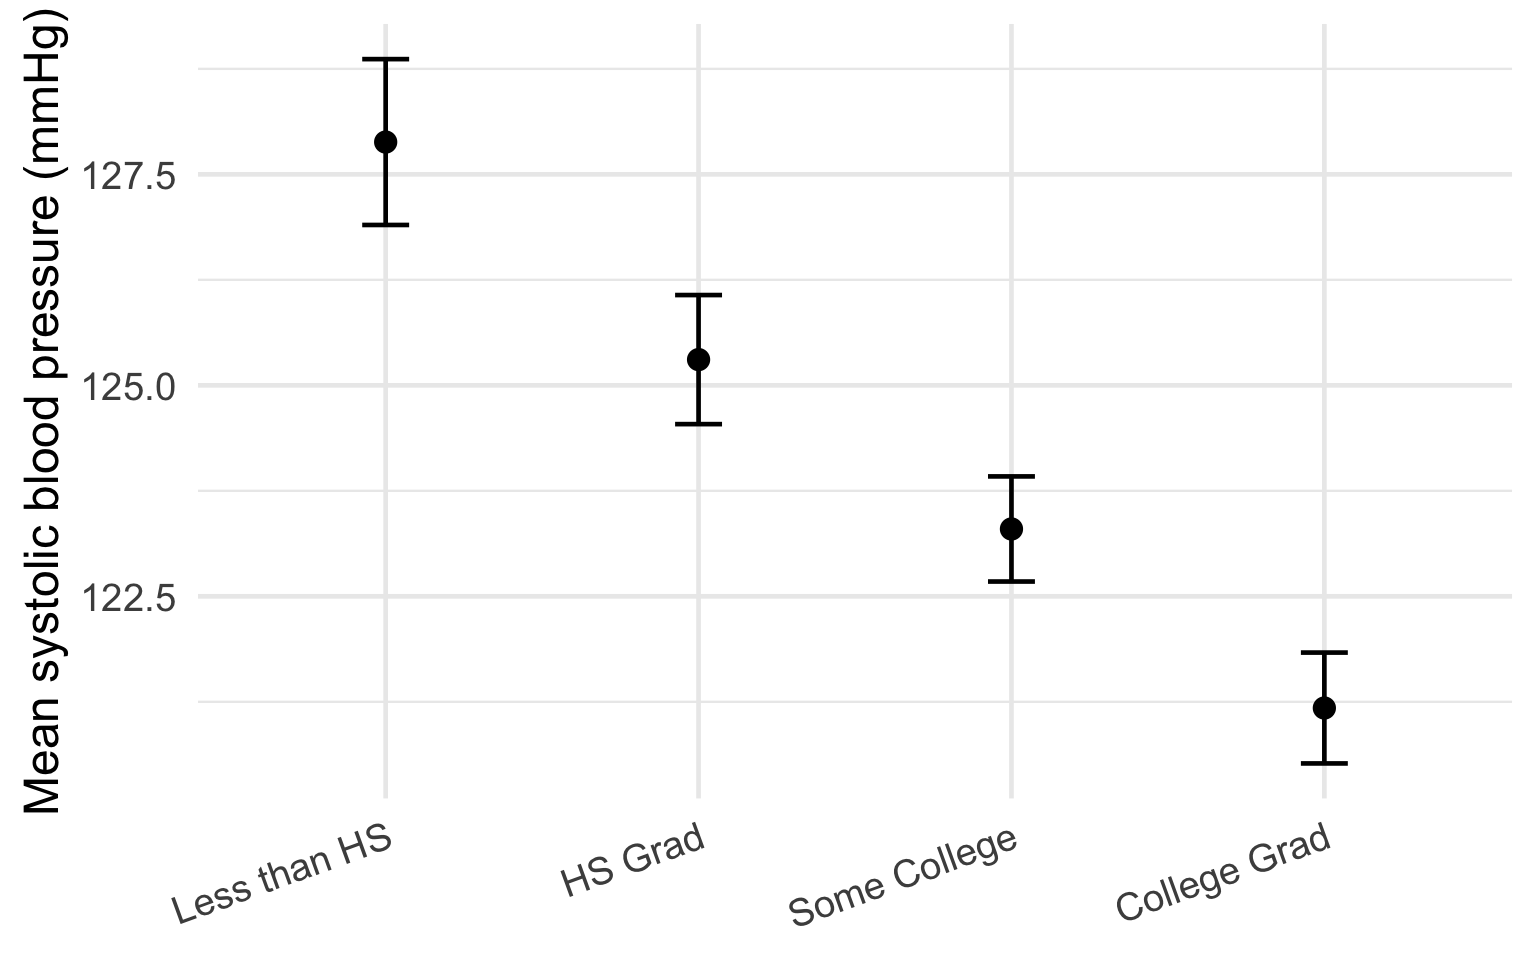
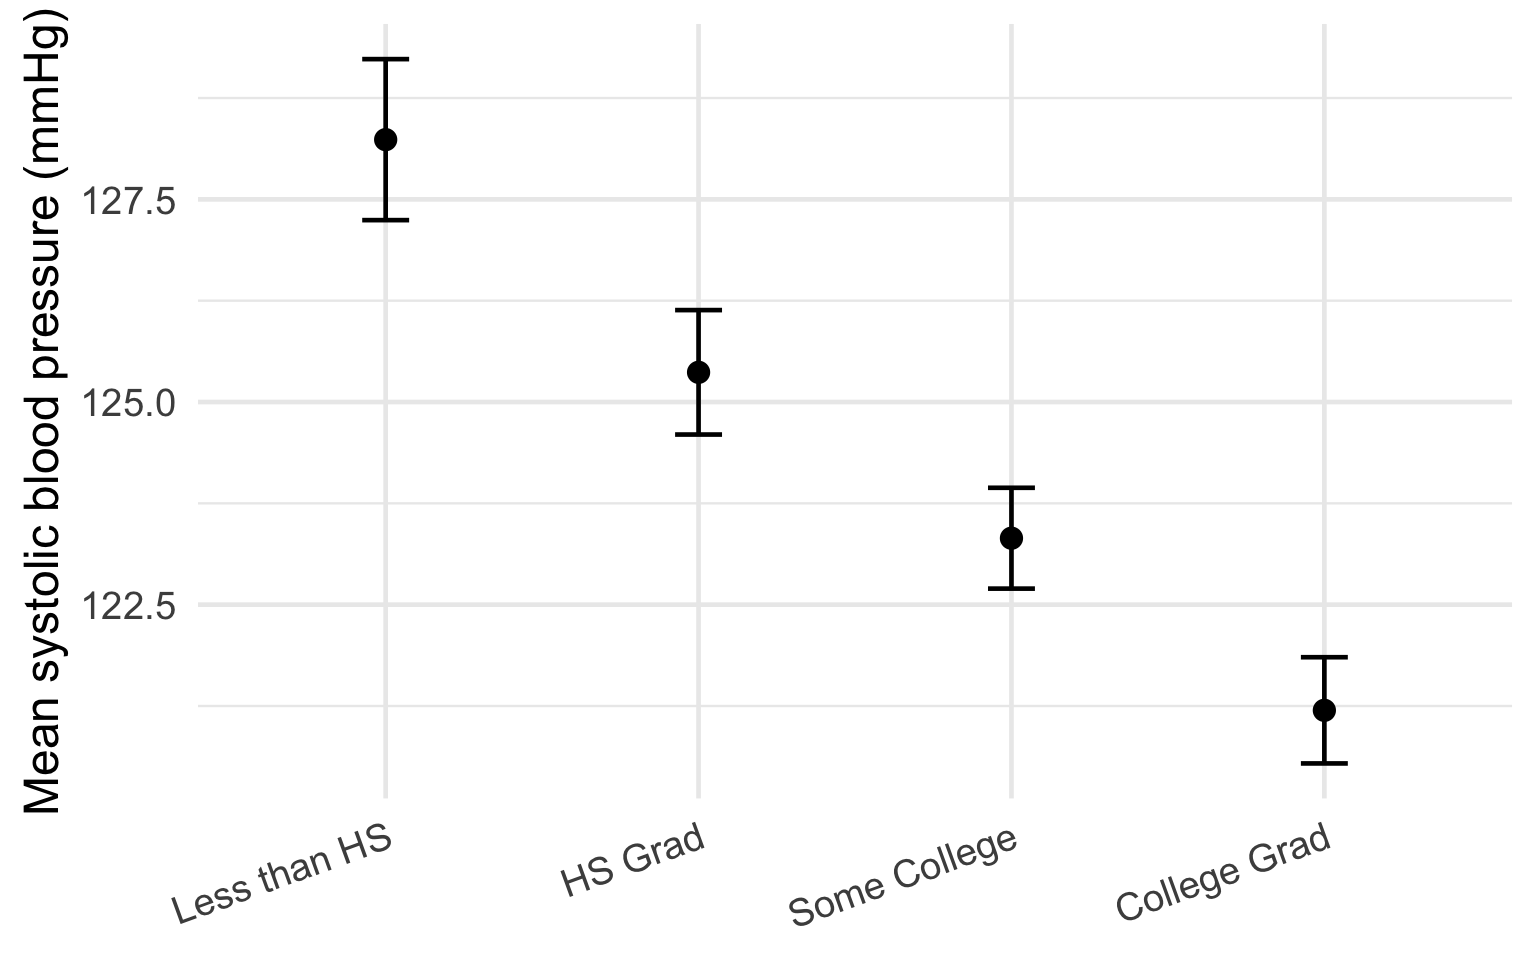
Add files via upload

diff --git a/docs/dashboard-main/dashboard.html b/docs/dashboard-main/dashboard.html
@@ -173,6 +173,8 @@ ul.task-list li input[type="checkbox"] {
 
 <!--
 ____________________________________________________________________________________________
+STUDY 1
+
 DATA DEVELOPMENT AND CLEANING
 ____________________________________________________________________________________________-->
 <!--
@@ -294,7 +296,7 @@ grid-auto-rows: minmax(0, 1fr);">
 Female Mean SBP
 </p>
 <p class="value-box-value">
-121.4 mmHg
+121.5 mmHg
 </p>
 </div>
 </div>
@@ -307,7 +309,7 @@ Female Mean SBP
 Male Mean SBP
 </p>
 <p class="value-box-value">
-126.7 mmHg
+126.8 mmHg
 </p>
 </div>
 </div>
@@ -366,17 +368,17 @@ Sex vs.&nbsp;SBP Summary
 <tbody>
 <tr class="odd">
 <td style="text-align: left;">Female</td>
-<td style="text-align: right;">3570</td>
-<td style="text-align: right;">121.4</td>
-<td style="text-align: right;">20</td>
+<td style="text-align: right;">3590</td>
+<td style="text-align: right;">121.5</td>
+<td style="text-align: right;">20.1</td>
 <td style="text-align: right;">118</td>
-<td style="text-align: right;">25.9</td>
+<td style="text-align: right;">25.7</td>
 </tr>
 <tr class="even">
 <td style="text-align: left;">Male</td>
-<td style="text-align: right;">3455</td>
-<td style="text-align: right;">126.7</td>
-<td style="text-align: right;">17</td>
+<td style="text-align: right;">3493</td>
+<td style="text-align: right;">126.8</td>
+<td style="text-align: right;">17.1</td>
 <td style="text-align: right;">124</td>
 <td style="text-align: right;">20.0</td>
 </tr>
@@ -442,7 +444,7 @@ grid-auto-rows: minmax(0, 1fr);">
 Participants
 </p>
 <p class="value-box-value">
-7025
+7079
 </p>
 </div>
 </div>
@@ -470,7 +472,7 @@ College Grad Mean SBP
 Less than HS Mean SBP
 </p>
 <p class="value-box-value">
-127.9 mmHg
+128.2 mmHg
 </p>
 </div>
 </div>
@@ -544,31 +546,31 @@ Education vs.&nbsp;SBP Summary
 <tbody>
 <tr class="odd">
 <td style="text-align: left;">Less than HS</td>
-<td style="text-align: right;">1206</td>
-<td style="text-align: right;">127.9</td>
-<td style="text-align: right;">20.7</td>
-<td style="text-align: right;">124.3</td>
-<td style="text-align: right;">27.3</td>
+<td style="text-align: right;">1228</td>
+<td style="text-align: right;">128.2</td>
+<td style="text-align: right;">21.1</td>
+<td style="text-align: right;">124.7</td>
+<td style="text-align: right;">27.7</td>
 </tr>
 <tr class="even">
 <td style="text-align: left;">HS Grad</td>
-<td style="text-align: right;">1684</td>
-<td style="text-align: right;">125.3</td>
-<td style="text-align: right;">19.1</td>
+<td style="text-align: right;">1695</td>
+<td style="text-align: right;">125.4</td>
+<td style="text-align: right;">19.2</td>
 <td style="text-align: right;">122.7</td>
 <td style="text-align: right;">23.7</td>
 </tr>
 <tr class="odd">
 <td style="text-align: left;">Some College</td>
-<td style="text-align: right;">2346</td>
+<td style="text-align: right;">2360</td>
 <td style="text-align: right;">123.3</td>
-<td style="text-align: right;">18.3</td>
+<td style="text-align: right;">18.4</td>
 <td style="text-align: right;">120.7</td>
 <td style="text-align: right;">23.7</td>
 </tr>
 <tr class="even">
 <td style="text-align: left;">College Grad</td>
-<td style="text-align: right;">1789</td>
+<td style="text-align: right;">1796</td>
 <td style="text-align: right;">121.2</td>
 <td style="text-align: right;">16.9</td>
 <td style="text-align: right;">119.3</td>
@@ -613,43 +615,43 @@ Tukey HSD Pairwise Comparisons
 <tbody>
 <tr class="odd">
 <td style="text-align: left;">HS Grad-Less than HS</td>
-<td style="text-align: right;">-2.58</td>
-<td style="text-align: right;">-4.19</td>
-<td style="text-align: right;">-0.97</td>
-<td style="text-align: left;">0.001</td>
+<td style="text-align: right;">-2.87</td>
+<td style="text-align: right;">-4.48</td>
+<td style="text-align: right;">-1.26</td>
+<td style="text-align: left;">&lt;0.001</td>
 </tr>
 <tr class="even">
 <td style="text-align: left;">Some College-Less than HS</td>
-<td style="text-align: right;">-4.58</td>
-<td style="text-align: right;">-6.09</td>
-<td style="text-align: right;">-3.07</td>
+<td style="text-align: right;">-4.92</td>
+<td style="text-align: right;">-6.43</td>
+<td style="text-align: right;">-3.41</td>
 <td style="text-align: left;">&lt;0.001</td>
 </tr>
 <tr class="odd">
 <td style="text-align: left;">College Grad-Less than HS</td>
-<td style="text-align: right;">-6.71</td>
-<td style="text-align: right;">-8.29</td>
-<td style="text-align: right;">-5.12</td>
+<td style="text-align: right;">-7.04</td>
+<td style="text-align: right;">-8.63</td>
+<td style="text-align: right;">-5.45</td>
 <td style="text-align: left;">&lt;0.001</td>
 </tr>
 <tr class="even">
 <td style="text-align: left;">Some College-HS Grad</td>
-<td style="text-align: right;">-2.01</td>
-<td style="text-align: right;">-3.37</td>
-<td style="text-align: right;">-0.65</td>
-<td style="text-align: left;">0.004</td>
+<td style="text-align: right;">-2.05</td>
+<td style="text-align: right;">-3.41</td>
+<td style="text-align: right;">-0.68</td>
+<td style="text-align: left;">0.003</td>
 </tr>
 <tr class="odd">
 <td style="text-align: left;">College Grad-HS Grad</td>
-<td style="text-align: right;">-4.13</td>
-<td style="text-align: right;">-5.58</td>
-<td style="text-align: right;">-2.68</td>
+<td style="text-align: right;">-4.17</td>
+<td style="text-align: right;">-5.62</td>
+<td style="text-align: right;">-2.72</td>
 <td style="text-align: left;">&lt;0.001</td>
 </tr>
 <tr class="even">
 <td style="text-align: left;">College Grad-Some College</td>
 <td style="text-align: right;">-2.12</td>
-<td style="text-align: right;">-3.46</td>
+<td style="text-align: right;">-3.47</td>
 <td style="text-align: right;">-0.78</td>
 <td style="text-align: left;">0.002</td>
 </tr>
@@ -708,7 +710,7 @@ Elevated/High SBP: Not Obese
 Participants
 </p>
 <p class="value-box-value">
-7025
+7029
 </p>
 </div>
 </div>
@@ -764,13 +766,13 @@ Elevated/High SBP by Obesity Status
 <tbody>
 <tr class="odd">
 <td style="text-align: left;">Not obese</td>
-<td style="text-align: right;">1909</td>
-<td style="text-align: right;">2017</td>
+<td style="text-align: right;">1911</td>
+<td style="text-align: right;">2018</td>
 </tr>
 <tr class="even">
 <td style="text-align: left;">Obese</td>
 <td style="text-align: right;">1335</td>
-<td style="text-align: right;">1764</td>
+<td style="text-align: right;">1765</td>
 </tr>
 </tbody>
 </table>
@@ -790,21 +792,21 @@ Epi 2 × 2 Results
 <div class="cell-output cell-output-stdout html-fill-item html-fill-container">
 <pre><code>$table
           Elevated/High SBP Normal SBP    P(Elevated/High SBP) 90% conf.
-Obese                  1764       1335               0.5692159 0.5545282
-Not obese              2017       1909               0.5137545 0.5006273
+Obese                  1765       1335               0.5693548 0.5546700
+Not obese              2018       1911               0.5136167 0.5004945
            interval
-Obese     0.5837828
-Not obese 0.5268627
+Obese     0.5839187
+Not obese 0.5267201
 
 $measures
                                         90% conf.   interval
-             Relative Risk: 1.10795316 1.06852547 1.14883571
-         Sample Odds Ratio: 1.25059689 1.15503284 1.35406764
-Conditional MLE Odds Ratio: 1.25054792 1.15368463 1.35562655
-    Probability difference: 0.05546142 0.03577767 0.07506792
+             Relative Risk: 1.10852089 1.06908370 1.14941287
+         Sample Odds Ratio: 1.25199608 1.15634705 1.35555686
+Conditional MLE Odds Ratio: 1.25194678 1.15500026 1.35711587
+    Probability difference: 0.05573814 0.03605971 0.07533904
 
 $p.value
-[1] 3.706980e-06 3.702947e-06</code></pre>
+[1] 3.296618e-06 3.312622e-06</code></pre>
 </div>
 </div>
 <bslib-tooltip placement="auto" bsoptions="[]" data-require-bs-version="5" data-require-bs-caller="tooltip()">
@@ -833,7 +835,7 @@ grid-auto-rows: minmax(0, 1fr);">
 Participants
 </p>
 <p class="value-box-value">
-7025
+7079
 </p>
 </div>
 </div>
@@ -875,7 +877,7 @@ Chi-square p-value
 Minimum Expected Count
 </p>
 <p class="value-box-value">
-171
+173.6
 </p>
 </div>
 </div>
@@ -917,7 +919,7 @@ Distribution of SBP Categories
 grid-auto-rows: minmax(0, 1fr);">
 <div class="card html-fill-item html-fill-container bslib-card" data-fill="false" data-bslib-card-init="" data-require-bs-caller="card()" data-full-screen="false">
 <div class="card-body html-fill-item html-fill-container">
-<p><strong>Description:</strong> The chi-square test of independence showed evidence of an association between the education level and SBP categories, as the X² value computed to 109.67, with p&lt;0.001. Individuals with a higher education level tended to have a greater proportion of normal SBP values and a lower proportion of Stage 2 range or higher values. For example, 50.9% of college graduates were in the normal SBP category compared with 39.9% of participants with less than a high school education, while Stage 2 hypertension or crisis occurred in 13.1% and 26.1% of those groups, respectively.</p>
+<p><strong>Description:</strong> The chi-square test of independence showed evidence of an association between the education level and SBP categories, as the X² value computed to 102.74, with p&lt;0.001. Individuals with a higher education level tended to have a greater proportion of normal SBP values and a lower proportion of Stage 2 range or higher values. For example, 51.1% of college graduates were in the normal SBP category compared with 40.2% of participants with less than a high school education, while Stage 2 hypertension or crisis occurred in 13.1% and 25.6% of those groups, respectively.</p>
 </div>
 <bslib-tooltip placement="auto" bsoptions="[]" data-require-bs-version="5" data-require-bs-caller="tooltip()">
     <template>Expand</template>
@@ -954,31 +956,31 @@ Education x SBP Category
 <tbody>
 <tr class="odd">
 <td style="text-align: left;">Less than HS</td>
-<td style="text-align: right;">485</td>
-<td style="text-align: right;">246</td>
-<td style="text-align: right;">166</td>
-<td style="text-align: right;">309</td>
+<td style="text-align: right;">490</td>
+<td style="text-align: right;">248</td>
+<td style="text-align: right;">169</td>
+<td style="text-align: right;">321</td>
 </tr>
 <tr class="even">
 <td style="text-align: left;">HS Grad</td>
-<td style="text-align: right;">719</td>
-<td style="text-align: right;">364</td>
-<td style="text-align: right;">281</td>
-<td style="text-align: right;">320</td>
+<td style="text-align: right;">723</td>
+<td style="text-align: right;">366</td>
+<td style="text-align: right;">282</td>
+<td style="text-align: right;">324</td>
 </tr>
 <tr class="odd">
 <td style="text-align: left;">Some College</td>
-<td style="text-align: right;">1126</td>
-<td style="text-align: right;">498</td>
+<td style="text-align: right;">1133</td>
+<td style="text-align: right;">499</td>
 <td style="text-align: right;">320</td>
-<td style="text-align: right;">402</td>
+<td style="text-align: right;">408</td>
 </tr>
 <tr class="even">
 <td style="text-align: left;">College Grad</td>
-<td style="text-align: right;">914</td>
-<td style="text-align: right;">412</td>
-<td style="text-align: right;">229</td>
-<td style="text-align: right;">234</td>
+<td style="text-align: right;">915</td>
+<td style="text-align: right;">416</td>
+<td style="text-align: right;">230</td>
+<td style="text-align: right;">235</td>
 </tr>
 </tbody>
 </table>
@@ -1009,7 +1011,7 @@ Chi-square Test
 </thead>
 <tbody>
 <tr class="odd">
-<td style="text-align: right;">102.74</td>
+<td style="text-align: right;">109.67</td>
 <td style="text-align: right;">9</td>
 <td style="text-align: left;">&lt;0.001</td>
 </tr>
@@ -1051,8 +1053,8 @@ Chi-square Test
 <td>7,853</td>
 </tr>
 <tr class="odd">
-<td><strong>Complete data</strong></td>
-<td>7,025</td>
+<td><strong>Cleaned sample</strong></td>
+<td>7,853</td>
 </tr>
 <tr class="even">
 <td><strong>Last rendered</strong></td>

diff --git a/docs/blog/index.html b/docs/blog/index.html
@@ -183,13 +183,13 @@ ul.task-list li input[type="checkbox"] {
 <h1>Analysis</h1>
 <section id="sex-vs.-sbp" class="level2">
 <h2 class="anchored" data-anchor-id="sex-vs.-sbp">Sex vs.&nbsp;SBP</h2>
-<p>I first wanted to see the difference in SBP based on sex. I found that the mean SBP for females was 121.5 mmHg and for males, it was 126.8 mmHg. The estimated mean difference (female minus male) was −5.3 mmHg. Then, I used Welch’s two-sample t procedure to obtain the 90% confidence interval for this difference, coming out to −6.03 to −4.58 mmHg. Because the interval does not span across 0, the results provide evidence of a difference in mean systolic blood pressure between females and males, with females having a lower mean systolic blood pressure on average. The Welch’s two-sample t-test was used because I was comparing a quantitative outcome between two independent groups, and the test does not require equal group variances.</p>
+<p>I first wanted to see the difference in SBP based on sex. I found that the mean SBP for females was 121.4 mmHg and for males, it was 126.7 mmHg. The estimated mean difference (female minus male) was −5.3 mmHg. Then, I used Welch’s two-sample t procedure to obtain the 90% confidence interval for this difference, coming out to −6.03 to −4.58 mmHg. Because the interval does not span across 0, the results provide evidence of a difference in mean systolic blood pressure between females and males, with females having a lower mean systolic blood pressure on average. The Welch’s two-sample t-test was used because I was comparing a quantitative outcome between two independent groups, and the test does not require equal group variances.</p>
 </section>
 <section id="education-vs.-sbp" class="level2">
 <h2 class="anchored" data-anchor-id="education-vs.-sbp">Education vs.&nbsp;SBP</h2>
-<p>Education was divided into four groups: less than high school, high school graduate, some college, and college graduate. Education is an interesting variable to analyze in relation to SBP, but its interpretation requires some nuance because educational attainment may reflect many social, economic, and environmental factors. Therefore, I treated education strictly as a variable associated with SBP rather than assuming that education itself causes differences in blood pressure.</p>
-<p>Because I was comparing a quantitative outcome across four independent groups, I used a one-way ANOVA to test whether there was evidence that mean SBP differed among the education groups. The ANOVA provided evidence of a difference in mean SBP across education levels. The group summaries also showed a general pattern in which participants with less than a high school education had the highest mean SBP of 128.2 mmHg, while college graduates had the lowest mean SBP of 121.2 mmHg.</p>
-<p>Since the ANOVA only tells us whether at least one population mean differs from the others, I followed it with Tukey’s honestly significant difference (HSD) procedure. This allowed me to examine pairwise differences between education groups while accounting for the multiple comparisons being made. Overall, the results suggest an association between greater educational attainment and lower SBP in this NHANES sample. However, this analysis does not establish that increasing education would directly lower blood pressure, since factors such as age, income, access to health care, diet, and other characteristics could contribute to the observed relationship.</p>
+<p>Education was divided into four groups: less than high school, high school graduate, some college, and college graduate. Education is an interesting variable to analyze in relation to SBP, but its interpretation requires some nuance because education level may reflect many social, economic, and environmental factors. Therefore, I treated education strictly as a variable associated with SBP rather than assuming that education itself causes differences in blood pressure.</p>
+<p>Because I was comparing a quantitative outcome across four independent groups, I used a one-way ANOVA to test whether there was evidence that mean SBP differed among the education groups. The ANOVA provided evidence of a difference in mean SBP across education levels. The group summaries also showed a general pattern in which participants with less than a high school education had the highest mean SBP of 127.9 mmHg, while college graduates had the lowest mean SBP of 121.2 mmHg.</p>
+<p>Since the ANOVA only tells us whether at least one population mean differs from the others, I followed it with Tukey’s honestly significant difference (HSD) procedure. This allowed me to examine pairwise differences between education groups while accounting for the multiple comparisons being made. Overall, the results suggest an association between greater education level and lower SBP in this NHANES sample. However, this analysis does not establish that increasing education would directly lower blood pressure, since factors such as age, income, access to health care, diet, and other characteristics could contribute to the observed relationship.</p>
 </section>
 <section id="obesity-vs.-sbp" class="level2">
 <h2 class="anchored" data-anchor-id="obesity-vs.-sbp">Obesity vs.&nbsp;SBP</h2>
@@ -200,14 +200,20 @@ ul.task-list li input[type="checkbox"] {
 </section>
 <section id="education-vs.-categorized-sbp" class="level2">
 <h2 class="anchored" data-anchor-id="education-vs.-categorized-sbp">Education vs.&nbsp;Categorized SBP</h2>
-<p>For my final analysis, I examined education and SBP as two categorical variables. Participants were divided into four education groups and four SBP categories: normal, elevated, Stage 1 range, and Stage 2 range or higher. This produced a 4 × 4 contingency table.</p>
-<p>I used a Pearson chi-square test of independence to determine whether the distribution of SBP categories was associated with education level, which produced a chi-square statistic of 109.67 with 9 degrees of freedom and a p-value below 0.001. Therefore, the results provide strong evidence of an association between education level and SBP category.</p>
-<p>The proportions also showed a noticeable pattern across education groups. Among college graduates, 50.9% were in the normal SBP category, compared with 39.9% of participants with less than a high school education. In contrast, 13.1% of college graduates had Stage 2-range or higher SBP, compared with 26.1% of participants with less than a high school education. Thus, higher educational attainment was associated with a greater proportion of participants in the healthier SBP categories and a smaller proportion in the highest SBP category.</p>
-<p>As is the case with the previous education analysis, this relationship should not be interpreted as causal. Educational attainment may be related to other characteristics that affect blood pressure, and these potential confounding variables were not controlled for in this project.</p>
+<p>For my final analysis, I examined education and SBP as two categorical variables. This time, the average SBP was divided into four categories:</p>
+<ul>
+<li>Normal: &lt;120 mmHg</li>
+<li>Elevated: 120 to &lt;130 mmHg</li>
+<li>Stage 1 range: 130 to &lt;140 mmHg</li>
+<li>Stage 2 range or higher: ≥140 mmHg</li>
+</ul>
+<p>I used a Pearson chi-square test of independence to determine whether the distribution of SBP categories was associated with education level, which produced a chi-square statistic of 102.74 with 9 degrees of freedom and a p-value below 0.001. Therefore, the results provide strong evidence of an association between education level and SBP category.</p>
+<p>The proportions also showed a noticeable pattern across education groups. Among college graduates, 51.1% were in the normal SBP category, compared with 40.2% of participants with less than a high school education. In contrast, 13.1% of college graduates had Stage 2-range or higher SBP, compared with 25.6% of participants with less than a high school education. Thus, higher education level was associated with a greater proportion of participants in the healthier SBP categories and a smaller proportion in the highest SBP category.</p>
+<p>As is the case with the previous education analysis, this relationship should not be interpreted as causal. Education level may be related to other characteristics that affect blood pressure, and these potential confounding variables were not controlled for in this project.</p>
 </section>
 <section id="conclusion" class="level2">
 <h2 class="anchored" data-anchor-id="conclusion">Conclusion</h2>
-<p>Overall, the analyses supported my central hypothesis that systolic blood pressure differs across demographic and health-related groups. Mean SBP was lower among females than males and varied across education levels. Participants with obesity had a greater prevalence of elevated/high SBP than participants without obesity. Finally, the distribution of SBP categories was associated with educational attainment, with higher education groups generally having a larger proportion of participants in healthier SBP categories.</p>
+<p>Overall, the analyses supported my central hypothesis that systolic blood pressure differs across demographic and health-related groups. Mean SBP was lower among females than males and varied across education levels. Participants with obesity had a greater prevalence of elevated/high SBP than participants without obesity. Finally, the distribution of SBP categories was associated with education level, with higher education groups generally having a larger proportion of participants in healthier SBP categories.</p>
 <p>Although obesity was more emphasized in my original motivation and hypothesis for this project, the results also demonstrate that blood pressure varies in relation to demographic and socioeconomic characteristics. This highlights why population health outcomes such as blood pressure should not necessarily be considered in isolation from the broader characteristics of the population being studied.</p>
 <p>There are several limitations to these analyses. First, the data are observational and cross-sectional, so the results show associations rather than causal relationships. Second, the analyses considered each variable separately and did not adjust for potential confounding factors such as age, income, medication use, diet, or other health conditions. Finally, NHANES uses a complex survey sampling design. Because survey weights were not incorporated for this course project, the numerical results presented here should be interpreted as descriptions of the analyzed NHANES sample rather than nationally representative values for all U.S. adults.</p>
 <p>Despite these limitations, this project allowed me to employ several statistical methods and techniques to an interesting research question, including a Welch two-sample t procedure, one-way ANOVA with Tukey pairwise comparisons, a 2 × 2 contingency table analysis, and a Pearson chi-square test of independence. Most of all, building the dashboard helped me build a rewarding skill combining statistical analysis, visualization, and interpretation to communicate data in a user-friendly and accessible format.</p>
